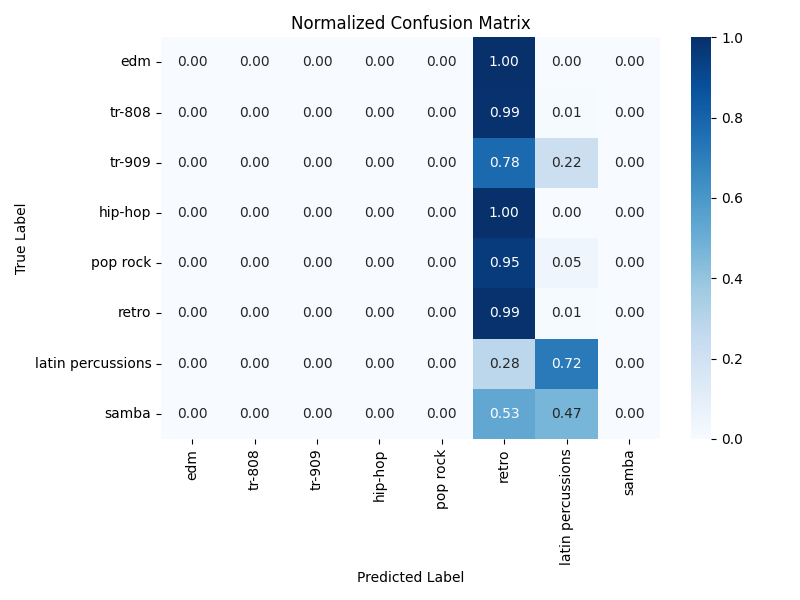
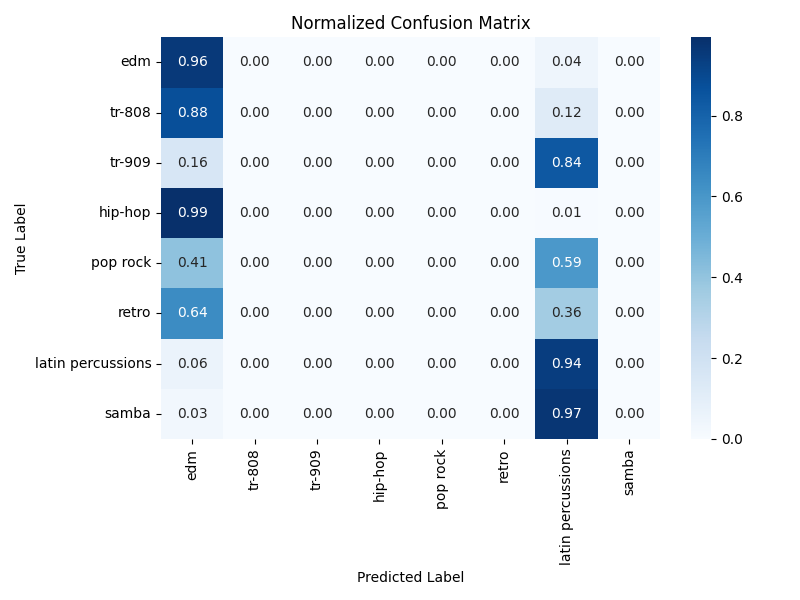
trained a simple mlp

diff --git a/train.py b/train.py
@@ -2,12 +2,13 @@ import torch
 import matplotlib.pyplot as plt
 import seaborn as sns
 from torch import nn
-from torchaudio.transforms import MFCC
+from torchaudio.transforms import MFCC, Resample
 from torch.utils.data import DataLoader, random_split
 from _dataset import PatchBanksDataset
 from _model import MLP
 from tqdm import tqdm
 from torchmetrics import ConfusionMatrix
+from datetime import datetime
 
 
 class_mappings = [
@@ -70,8 +71,9 @@ def evaluate(model, test_data_loader, loss_fn, device):
     plt.ylabel("True Label")
     plt.title("Normalized Confusion Matrix")
     plt.tight_layout()
-
-    plt.savefig("plots/metrics/confusion_matrix.png")
+    current_time = datetime.now()
+    time_str = current_time.strftime("%m_%d_%H_%M")
+    plt.savefig(f"plots/metrics/confusion_matrix_{time_str}.png")
 
 
 def train_one_epoch(model, data_loader, loss_fn, optimizer, device):
@@ -99,7 +101,7 @@ def train_one_epoch(model, data_loader, loss_fn, optimizer, device):
     return avg_loss, accuracy
 
 
-def train(model, train_data_loader, loss_fn, optimizer, device, epochs):
+def train(model, train_data_loader, loss_fn, optimizer, scheduler, device, epochs):
     model.train()
     loss_during_training = []
     accuracy_during_training = []
@@ -109,6 +111,9 @@ def train(model, train_data_loader, loss_fn, optimizer, device, epochs):
         avg_loss, accuracy = train_one_epoch(
             model, train_data_loader, loss_fn, optimizer, device
         )
+        scheduler.step()
+        current_lr = optimizer.param_groups[0]["lr"]
+        print(f"Current Learning Rate: {current_lr}")
         print("----------------------------")
         loss_during_training.append(avg_loss)
         accuracy_during_training.append(accuracy)
@@ -130,22 +135,27 @@ def train(model, train_data_loader, loss_fn, optimizer, device, epochs):
     plt.ylabel("Accuracy")
     plt.title("Accuracy During Training")
     plt.legend()
-    plt.savefig("plots/metrics/training_metrics.png")
+    current_time = datetime.now()
+    time_str = current_time.strftime("%m_%d_%H_%M")
+    plt.savefig(f"plots/metrics/training_metrics_{time_str}.png")
 
 
 if __name__ == "__main__":
     device = torch.device("cuda" if torch.cuda.is_available() else "cpu")
 
+    torch.cuda.empty_cache()
+
     annotations = "data/PatchBanks/annotations.csv"
     audio_dir = "data/PatchBanks"
     SAMPLE_RATE = 44_100
+    TARGET_SAMPLE_RATE = 22_050
     BATCH_SIZE = 128
     EPOCHS = 20
     LR = 1e-3
 
     mfcc_transform = MFCC(
         sample_rate=SAMPLE_RATE,
-        n_mfcc=13,
+        n_mfcc=20,
         melkwargs={
             "n_fft": 1024,
             "hop_length": 512,
@@ -153,12 +163,10 @@ if __name__ == "__main__":
         },
     )
 
-    pbd = PatchBanksDataset(
-        annotations, audio_dir, mfcc_transform, SAMPLE_RATE, 2, device
-    )
+    resampler = Resample(SAMPLE_RATE, TARGET_SAMPLE_RATE)
 
     dataset = PatchBanksDataset(
-        annotations, audio_dir, mfcc_transform, SAMPLE_RATE, 2, device
+        annotations, audio_dir, mfcc_transform, resampler, SAMPLE_RATE, 2, device
     )
     total_size = len(dataset)
     train_size = int(0.7 * total_size)
@@ -170,12 +178,24 @@ if __name__ == "__main__":
     test_data_loader = DataLoader(test_dataset, batch_size=BATCH_SIZE, shuffle=False)
 
     mlp_network = MLP().to(device)
+    # mlp_network.load_state_dict(torch.load("trained_models/MLP_2_3_311.pth"))
 
     loss_fn = nn.CrossEntropyLoss()
     optimizer = torch.optim.Adam(mlp_network.parameters(), lr=LR)
+    scheduler = torch.optim.lr_scheduler.CosineAnnealingLR(
+        optimizer, T_max=EPOCHS, eta_min=1e-6
+    )
 
     print("Training Model")
-    train(mlp_network, train_data_loader, loss_fn, optimizer, device, epochs=EPOCHS)
+    train(
+        mlp_network,
+        train_data_loader,
+        loss_fn,
+        optimizer,
+        scheduler,
+        device,
+        epochs=EPOCHS,
+    )
     print("============================")
 
     print("Final Evaluation on Test Set:")
@@ -183,5 +203,7 @@ if __name__ == "__main__":
     print("============================")
 
     print("saving Model")
-    torch.save(mlp_network.state_dict(), "trained_models/MLP.pth")
+    current_time = datetime.now()
+    time_str = current_time.strftime("%m_%d_%H_%M")
+    torch.save(mlp_network.state_dict(), f"trained_models/MLP_{time_str}.pth")
     print("model saved")

diff --git a/_model.py b/_model.py
@@ -2,55 +2,116 @@ from torch import nn
 from torchsummary import summary
 
 
-class MLP(nn.Module):
+import torch.nn as nn
+
+
+class CNN_Classifier(nn.Module):
     def __init__(self):
         super().__init__()
 
         self.conv1 = nn.Sequential(
             nn.Conv2d(
-                in_channels=1,
-                out_channels=32,
-                kernel_size=3,
-                stride=1,
-                padding=2
+                in_channels=1, out_channels=32, kernel_size=3, stride=1, padding=2
             ),
+            nn.BatchNorm2d(32),
             nn.ReLU(),
-            nn.MaxPool2d(kernel_size=2)
+            nn.MaxPool2d(kernel_size=2),
         )
-        self.conv2 = nn.Sequential(
-            nn.Conv2d(
-                in_channels=32,
-                out_channels=64,
-                kernel_size=3,
-                stride=1,
-                padding=2
-            ),
-            nn.ReLU(),
-            nn.MaxPool2d(kernel_size=2)
-        )
+
+        # self.conv2 = nn.Sequential(
+        #     nn.Conv2d(
+        #         in_channels=32,
+        #         out_channels=64,
+        #         kernel_size=3,
+        #         stride=1,
+        #         padding=2
+        #     ),
+        #     nn.BatchNorm2d(64),
+        #     nn.ReLU(),
+        #     nn.MaxPool2d(kernel_size=2),
+        # )
+
+        # Third convolutional block (new)
+        # self.conv3 = nn.Sequential(
+        #     nn.Conv2d(
+        #         in_channels=64, out_channels=128, kernel_size=3, stride=1, padding=2
+        #     ),
+        #     nn.BatchNorm2d(128),
+        #     nn.ReLU(),
+        #     nn.MaxPool2d(kernel_size=2),
+        # )
+
+        # # Fourth convolutional block (new)
+        # self.conv4 = nn.Sequential(
+        #     nn.Conv2d(
+        #         in_channels=128,
+        #         out_channels=256,
+        #         kernel_size=3,
+        #         stride=1,
+        #         padding=2
+        #     ),
+        #     nn.BatchNorm2d(256),
+        #     nn.ReLU(),
+        #     nn.MaxPool2d(kernel_size=2)
+        # )
+
+        # After the conv layers, the feature map size is changed.
+        # Assuming the input shape is [batch, 1, 13, 173]:
+        # conv1: output -> [32, 15, 175] then maxpool -> [32, 7, 87]
+        # conv2: output -> [64, 9, 89] then maxpool -> [64, 4, 44]
+        # conv3: output -> [128, 6, 46] then maxpool -> [128, 3, 23]
+        # conv4: output -> [256, 5, 25] then maxpool -> [256, 2, 12]
+        # Thus, the flattened feature vector size is 256*2*12 = 6144.
         self.dense_layer = nn.Sequential(
             nn.Flatten(),
-            nn.Linear(64*4*44, 128),
+            nn.Linear(64 * 6 * 23, 64),
+            nn.BatchNorm1d(64),
             nn.ReLU(),
-            nn.Dropout(0.5)
+            nn.Dropout(0.5),
         )
-        
-        self.linear_2 = nn.Linear(128, 8)
+
+        self.linear_2 = nn.Linear(64, 8)
         self.softmax = nn.Softmax(dim=1)
 
     def forward(self, x):
-        # [1, 13, 173]
         x = self.conv1(x)
-        x = self.conv2(x)
+        # x = self.conv2(x)
+        # x = self.conv3(x)
+        # x = self.conv4(x)
+        # print(x.shape)
         x = self.dense_layer(x)
         logits = self.linear_2(x)
         predictions = self.softmax(logits)
-
         return predictions
 
 
-if __name__ == '__main__':
+class MLP(nn.Module):
+    def __init__(self):
+        super().__init__()
+        self.flatten = nn.Flatten()
+        self.fc1 = nn.Linear(20 * 87, 512)
+        # self.fc2 = nn.Linear(512, 256)
+
+        self.fc4 = nn.Linear(512, 8)
+
+        self.batchnorm1 = nn.BatchNorm1d(512)
+        self.batchnorm2 = nn.BatchNorm1d(256)
+        self.batchnorm3 = nn.BatchNorm1d(64)
+
+        self.relu = nn.ReLU()
+        self.softmax = nn.Softmax(dim=1)
+
+    def forward(self, x):
+        x = self.flatten(x)
+        x = self.relu(self.batchnorm1(self.fc1(x)))
+        # x = self.relu(self.batchnorm2(self.fc2(x)))
+        # x = self.relu(self.batchnorm3(self.fc3(x)))
+        x = self.fc4(x)
+        return self.softmax(x)
+
+
+if __name__ == "__main__":
 
     model = MLP()
 
-    summary(model.cuda(), (1, 13, 173))
+    summary(model.cuda(), (1, 20, 87))

diff --git a/_dataset.py b/_dataset.py
@@ -2,19 +2,29 @@ import os
 from torch.utils.data import Dataset
 import pandas as pd
 import torchaudio
-from torchaudio.transforms import MFCC, MelSpectrogram
+from torchaudio.transforms import MFCC, MelSpectrogram, Resample
 import torch
 import matplotlib.pyplot as plt
 
 
 class PatchBanksDataset(Dataset):
-    def __init__(self, annotations_file, audio_dir, transformation, target_sample_rate, duration, device):
+    def __init__(
+        self,
+        annotations_file,
+        audio_dir,
+        transformation,
+        resampler,
+        target_sample_rate,
+        duration,
+        device,
+    ):
         self.annotations = pd.read_csv(annotations_file)
         self.audio_dir = audio_dir
         self.target_sample_rate = target_sample_rate
         self.input_duration = duration
         self.device = device
         self.tranformation = transformation.to(self.device)
+        self.resampler = resampler.to(self.device)
 
     def __len__(self):
         return len(self.annotations)
@@ -22,7 +32,9 @@ class PatchBanksDataset(Dataset):
     def __getitem__(self, index):
         audio_sample_path = self.annotations.iloc[index, 1]
         label = self.annotations.iloc[index, 3]
-        signal, sr = torchaudio.load(audio_sample_path, )
+        signal, sr = torchaudio.load(
+            audio_sample_path,
+        )
         signal = signal.to(self.device)
 
         # trim to only 5 seconds
@@ -35,7 +47,7 @@ class PatchBanksDataset(Dataset):
         signal[:, -fade_samples:] *= fade_curve
 
         # Ensure signal is stereo
-
+        signal = self.resampler(signal)
         signal = self.tranformation(signal)
 
         if signal.shape[0] != 1:
@@ -44,22 +56,24 @@ class PatchBanksDataset(Dataset):
         return signal, label
 
 
-if __name__ == '__main__':
+if __name__ == "__main__":
 
     annotations = "data/PatchBanks/annotations.csv"
     audio_dir = "data/PatchBanks"
     SAMPLE_RATE = 44_100
+    TARGET_SAMPLE_RATE = 22_050
 
     mel_spec = MFCC(
         sample_rate=SAMPLE_RATE,
-        n_mfcc=13,
+        n_mfcc=20,
         melkwargs={
-
             "n_fft": 1024,
             "hop_length": 512,
             "n_mels": 40,
-        }
+        },
     )
+
+    resampler = Resample(SAMPLE_RATE, TARGET_SAMPLE_RATE)
 
     # mel_spec = MelSpectrogram(
     #     sample_rate=SAMPLE_RATE,
@@ -68,11 +82,12 @@ if __name__ == '__main__':
     #     n_mels=20
     # )
 
-    device = torch.device('cuda' if torch.cuda.is_available() else 'cpu')
-    pbd = PatchBanksDataset(annotations, audio_dir,
-                            mel_spec, SAMPLE_RATE, 2, device)
+    device = torch.device("cuda" if torch.cuda.is_available() else "cpu")
+    pbd = PatchBanksDataset(
+        annotations, audio_dir, mel_spec, resampler, SAMPLE_RATE, 2, device
+    )
 
-    print(pbd[0][0][0].shape)
+    print(pbd[0][0].shape)
     # for i, class_label in [(0, "house"), (1101, "tr_808"), (2201, "tr_909"), (3301, "hiphop"), (4401, "pop rock"), (5501, "retro"), (6601, "latin percussions"), (7701, "samba")]:
     #     plt.figure(figsize=(10, 4))
     #     plt.imshow(pbd[i][0][0].cpu().detach().numpy(),

diff --git a/clear_cache.py b/clear_cache.py
@@ -1,0 +1,3 @@
+import torch
+
+torch.cuda.empty_cache()
